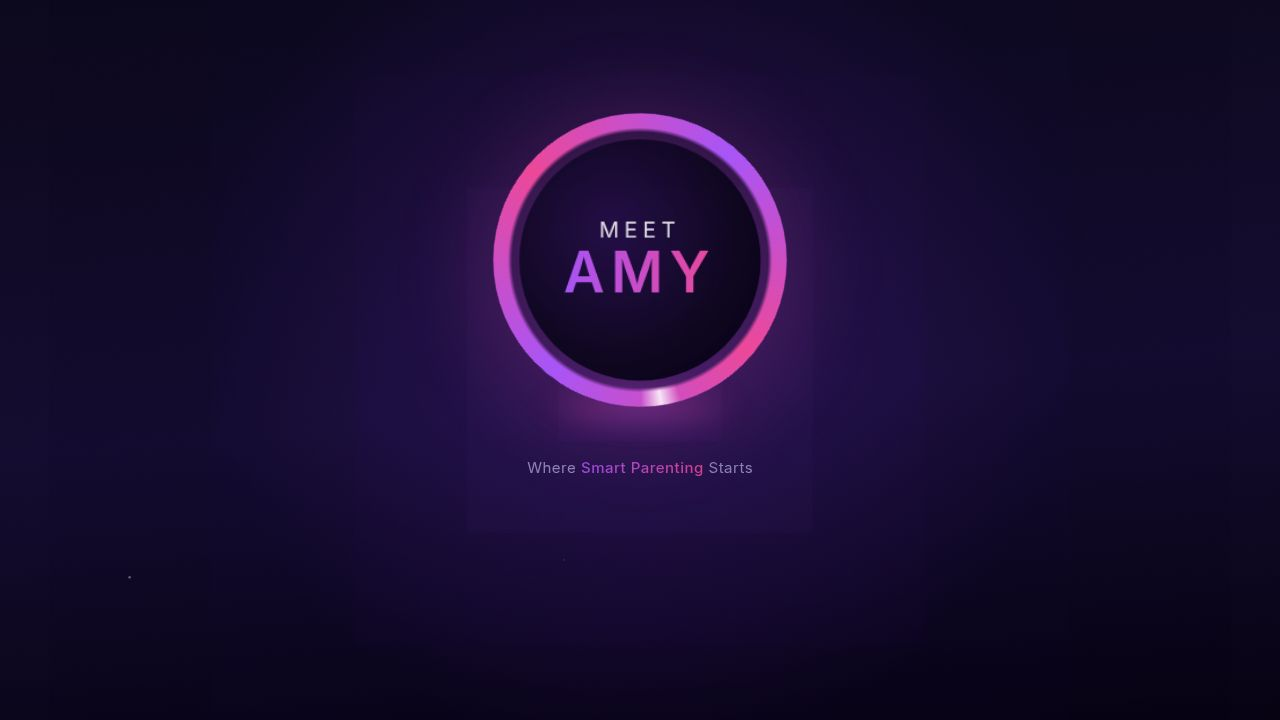
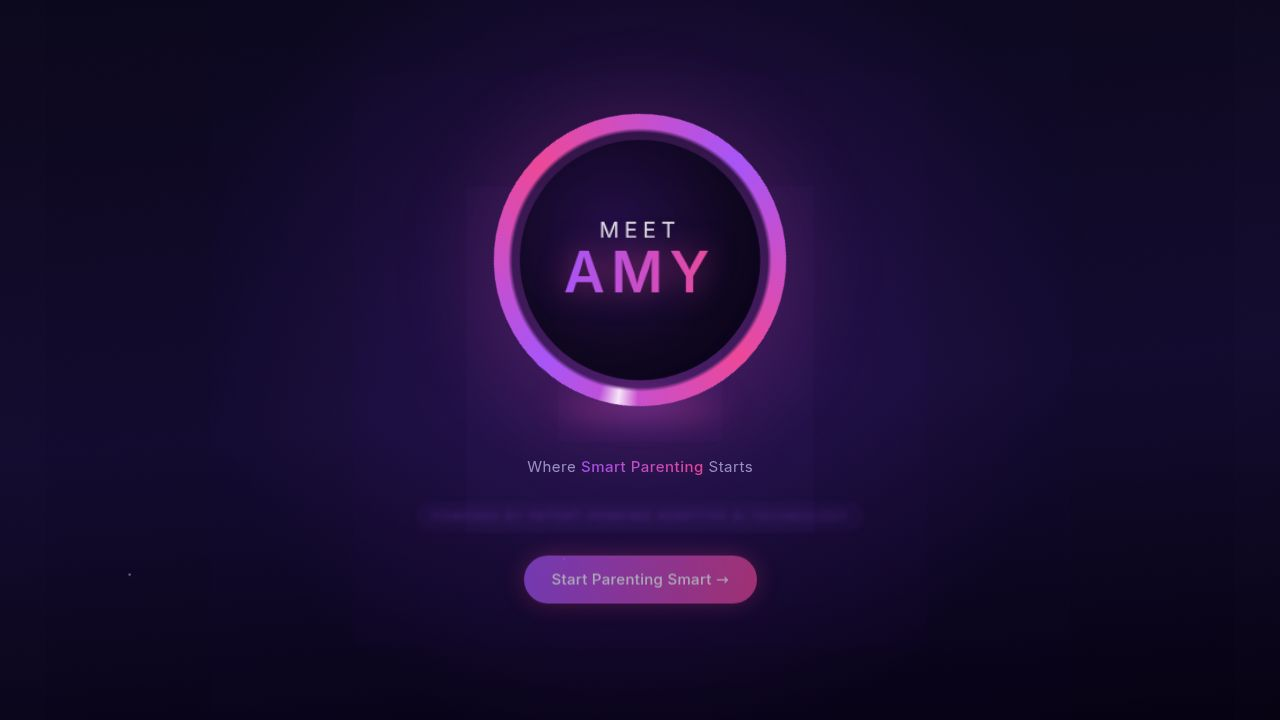
Show Google Play billing for non-Indian Android users
Introduce Android device detection and update the pricing page to conditionally display a Google Play subscription button for non-Indian Android users, while showing a download prompt for other non-Indian users.

Replit-Commit-Author: Agent
Replit-Commit-Session-Id: ff7cc0a2-c610-43ef-8b4b-54543901a5e1
Replit-Commit-Checkpoint-Type: full_checkpoint
Replit-Commit-Event-Id: 2336b7d6-f0cb-4e75-a669-32142c7cfd81
Replit-Commit-Screenshot-Url: https://storage.googleapis.com/screenshot-production-us-central1/daa805a0-a5b2-433a-830a-8bc9e761e470/ff7cc0a2-c610-43ef-8b4b-54543901a5e1/uIQ18US
Replit-Helium-Checkpoint-Created: true

diff --git a/artifacts/kidschedule/src/pages/pricing.tsx b/artifacts/kidschedule/src/pages/pricing.tsx
@@ -6,7 +6,7 @@ import {
 } from "lucide-react";
 import { Button } from "@/components/ui/button";
 import { useSubscription, type Plan } from "@/hooks/use-subscription";
-import { isIndiaRegion } from "@/lib/geo";
+import { isIndiaRegion, isAndroidDevice, PLAY_STORE_URL } from "@/lib/geo";
 
 // Dates >= this year are sentinel "no real expiry" values from the DB
 const SENTINEL_YEAR = 2099;
@@ -72,6 +72,7 @@ export default function PricingPage() {
 
   const isManagedByStore = provider === "revenuecat";
   const canCancelHere = isPremium && !cancelAtPeriodEnd && !isManagedByStore;
+  const isAndroid = isAndroidDevice();
 
   const onUpgrade = async (method?: "upi") => {
     const key = method === "upi" ? "googlepay" : "razorpay";
@@ -304,8 +305,35 @@ export default function PricingPage() {
           </div>
         )}
 
-        {/* Non-India: prompt to use mobile app */}
-        {!isIndia && !isPremium && (
+        {/* Non-India + Android → Google Play billing */}
+        {!isIndia && isAndroid && !isPremium && (
+          <a
+            href={PLAY_STORE_URL}
+            target="_blank"
+            rel="noopener noreferrer"
+            data-testid="button-upgrade-google-play"
+            data-on-dark
+            className="flex h-14 w-full items-center justify-center gap-3 rounded-2xl bg-white shadow-[0_4px_18px_rgba(0,0,0,0.35)] transition-opacity hover:opacity-90"
+            // audit-ok: Google Play brand green gradient on white button (official Google Play brand)
+            style={{ textDecoration: "none" }}
+          >
+            {/* audit-block-ignore-start — Google Play official brand colors (4-color icon per Google brand guidelines) */}
+            <svg width="26" height="28" viewBox="0 0 26 28" fill="none" xmlns="http://www.w3.org/2000/svg" aria-hidden="true">
+              <path d="M1 1.5L14.5 14L1 26.5V1.5Z" fill="#01875A" stroke="#01875A" strokeWidth="0.5"/>
+              <path d="M1 1.5L24 10L14.5 14L1 1.5Z" fill="#FFD400" stroke="#FFD400" strokeWidth="0.5"/>
+              <path d="M1 26.5L14.5 14L24 18L1 26.5Z" fill="#FF3A44" stroke="#FF3A44" strokeWidth="0.5"/>
+              <path d="M24 10L14.5 14L24 18L26 14L24 10Z" fill="#00AEFF" stroke="#00AEFF" strokeWidth="0.5"/>
+            </svg>
+            {/* audit-block-ignore-end */}
+            <div className="text-left">
+              <p className="text-xs leading-none" style={{ color: "#5F6368" }}>{t("pricing.open_google_play")}</p> {/* audit-ok: Google UI gray — Google Play button label */}
+              <p className="text-sm font-bold" style={{ color: "#202124" }}>{t("pricing.subscribe_google_play")}</p> {/* audit-ok: Google near-black — Google Play button title */}
+            </div>
+          </a>
+        )}
+
+        {/* Non-India + non-Android → prompt to download the app */}
+        {!isIndia && !isAndroid && !isPremium && (
           <div
             data-on-dark
             className="w-full space-y-2 rounded-xl border border-white/15 bg-white/5 px-4 py-4 text-center"

diff --git a/artifacts/kidschedule/src/lib/geo.ts b/artifacts/kidschedule/src/lib/geo.ts
@@ -16,6 +16,23 @@
 
 const INDIA_TIMEZONES = new Set(["Asia/Kolkata", "Asia/Calcutta"]);
 
+/** Google Play Store listing for AmyNest. */
+export const PLAY_STORE_URL =
+  "https://play.google.com/store/apps/details?id=com.amynest.app";
+
+/**
+ * Returns true when the current device is running Android.
+ * Covers both installed PWA (standalone mode) and the Android WebView wrapper.
+ * Use to gate Google Play billing on non-India Android devices.
+ */
+export function isAndroidDevice(): boolean {
+  try {
+    return /android/i.test(navigator.userAgent);
+  } catch {
+    return false;
+  }
+}
+
 /**
  * Returns true when the user's browser/device timezone is in India.
  * Use this to gate India-only payment methods like Razorpay.